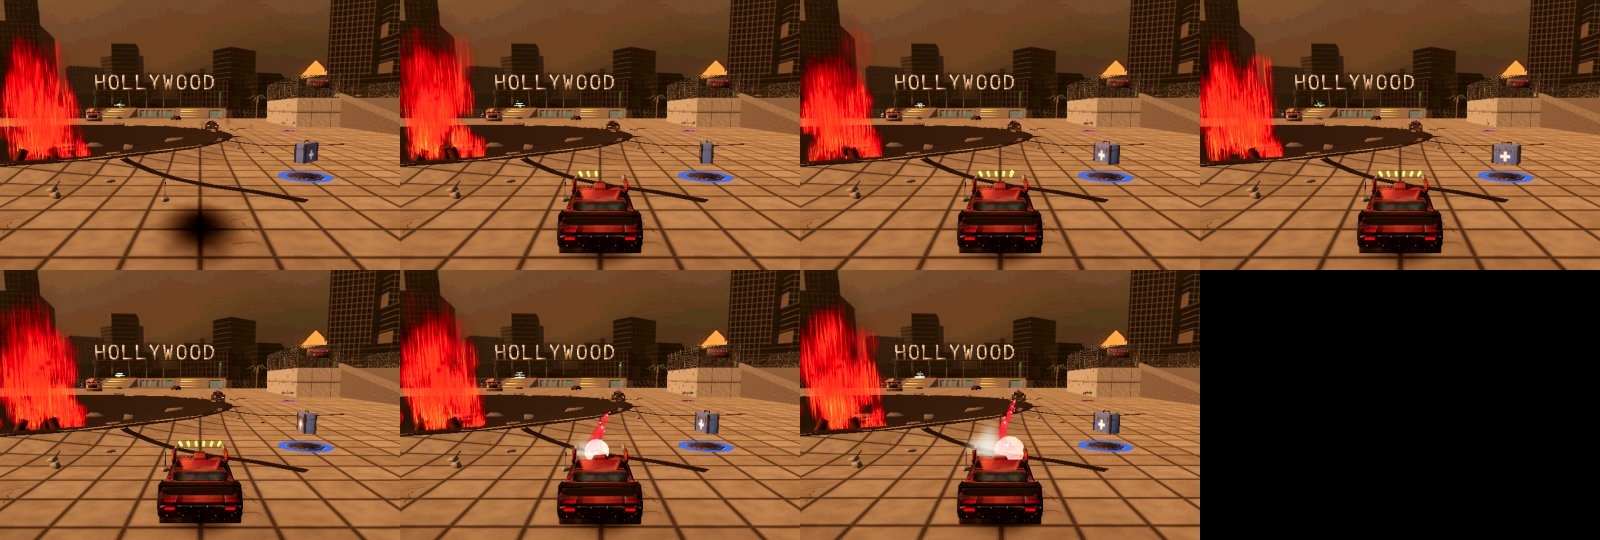
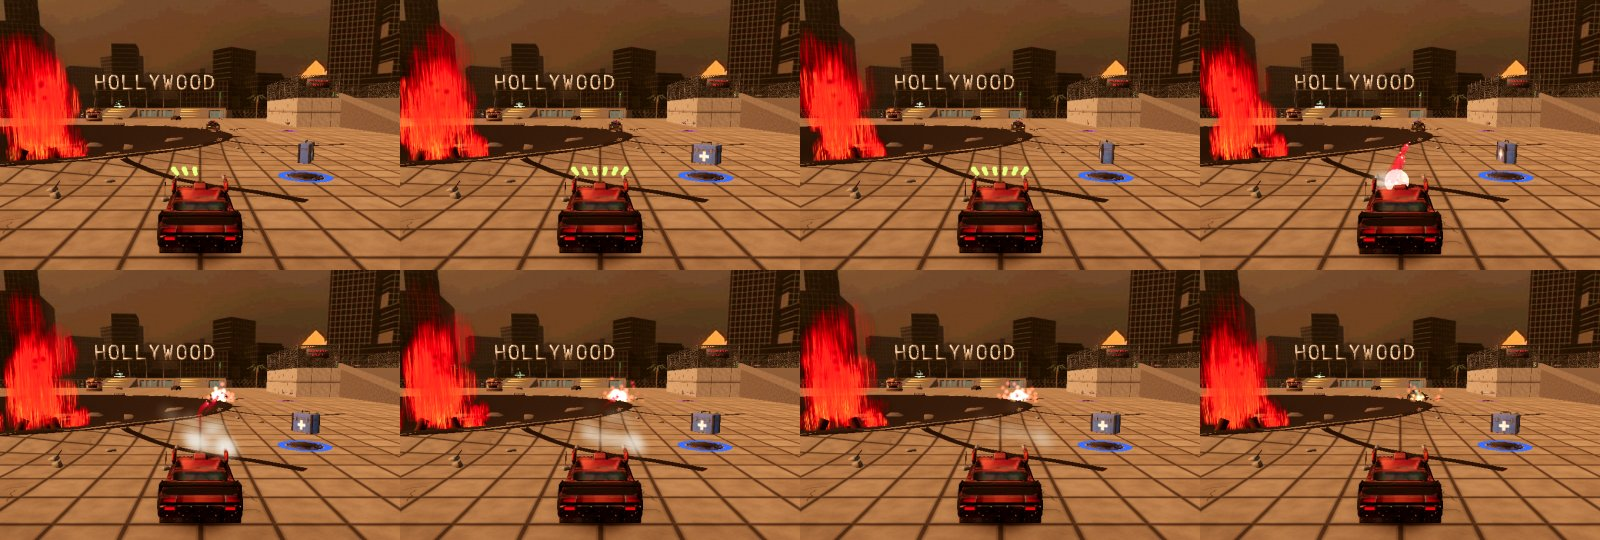
Round 23: scythe sound, tyre dash HUD chip, charged darts burst in their own colour
Claude-Session: https://claude.ai/code/session_01TCaEZnpaYiyTohKAawwfsm

diff --git a/CLAUDE.md b/CLAUDE.md
@@ -682,6 +682,9 @@ Design chapters (characters, stages, sub bosses, Calypso) live in `docs/design/`
   halo read as a fireball); charged = fire rings behind it (`_ring_step`). Roadkill: `Vehicle._rack_fx` = six darts over
   the launcher lighting up as missiles load (crimson when red); charged missiles carry two orbiting sparks.
   `tests/_proj_shot.gd -- weapon out.png [charged]` = one projectile up close; `tests/_charge_film.gd` = Roadkill's charge.
+  Charged darts burst in their own colour (`Projectile._dart_burst`: flash, ring, coloured sparks, tiny fireball). Soul
+  Harvest sound `audio/sfx/scythe_sweep.ogg` (Higgsfield Mirelo, the last 0.5 credit: the owner's balance is ~0.17 now),
+  played from its start at pitch 1.3 so its two whooshes land on the two laps. HUD chip "TYRE DASH n.n".
 - **Movement:** slower, like TM Black (not lazy); big cars no crazy drifts; weaker turbo (built: max speed 21.3 + 1.1 x SPD,
   handbrake grip/turn per class in `Roster`, turbo x1.28 for ~4.5 s). **Turbo never regenerates**:
   full at start and after respawn, each turbo pickup refills it **completely**, turbo pickups are the **most common**

diff --git a/docs/design/28-owner-round-23.md b/docs/design/28-owner-round-23.md
@@ -89,6 +89,11 @@
     - كلها تنبض عند الشحن الكامل.
     - وتتحول إلى القرمزي حين تصير حمراء.
   - **أثناء الطيران:** شرارتان تدوران حول كل صاروخ، كالشحنة الكهربائية.
+  - **عند الإصابة:** انفجار كهربائي بلونها (أخضر أو قرمزي): وميض، حلقة على الأرض، شرارات ملونة. لا كرة نار.
+- **صوت المنجل:** صوت جديد (ضربتان ثقيلتان في الهواء، رنين نصل، وأنين خافت).
+  - مولَّد بـ Higgsfield بآخر نصف رصيد.
+  - رصيد المالك الآن نحو 0.17.
+- **الشاشة:** شارة "TYRE DASH" مع الثواني المتبقية أثناء اندفاعة Axel.
 - **جمجمة Grimm:** وجه الروح من Head-On (أعلاه).
 
 ## رأيي (بصراحة)

diff --git a/audio/sfx/README.md b/audio/sfx/README.md
@@ -14,6 +14,7 @@ All files: mono Ogg Vorbis, peak -1 dB, converted from the owner's TM1 / TM2 / T
 | `launch_zoomy` | Zoomy salvo (TM 2012 zoomy_launch) |
 | `launch_napalm_cone` | Sweet Tooth's Napalm Cone (TM1 Sweet Tooth special) |
 | `launch_reaper_skull`, `launch_ghost_missile` | Mr. Grimm's and Spectre's specials (TM2) |
+| `scythe_sweep` | Mr. Grimm's Soul Harvest (round 23; generated with Higgsfield Mirelo SFX: two whooshes, blade ring, wail) |
 | `charge_up` | Napalm Cone charging: five rising beeps (then `taser_loop` hums until you let go) |
 | `missile_flyby` | a missile passing close to the camera (TM 2012) |
 | `special_outlaw`, `taser_loop`, `taser_fizzle` | Outlaw's taser: link (TM2), crackle while held and fizzle at the end (TM 2012 field surge) |
